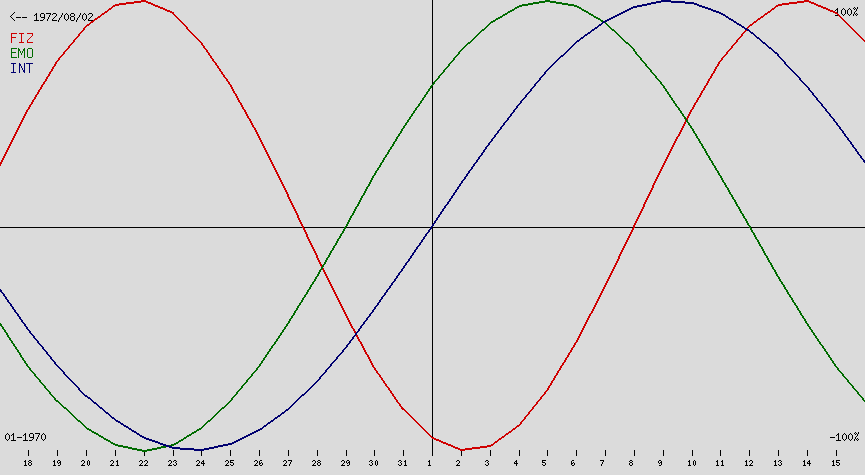
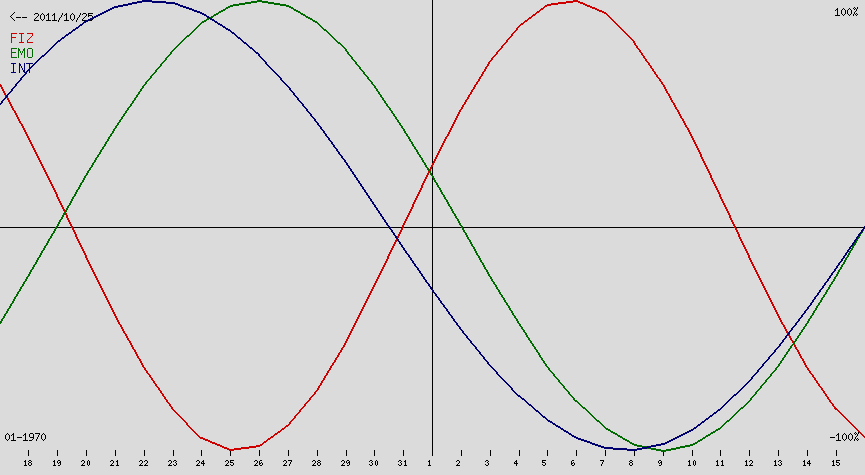
reorganización de la estructura de directorios

diff --git a/src/Jazzyweb/Bioritmos/Views/layout.php b/src/Jazzyweb/Bioritmos/Views/layout.php
@@ -1,8 +1,44 @@
-<?php
-/**
- * Created by JetBrains PhpStorm.
- * User: juandalibaba
- * Date: 14/09/13
- * Time: 15:08
- * To change this template use File | Settings | File Templates.
- */
+<!DOCTYPE html>
+<html lang="en">
+<head>
+    <meta charset="utf-8">
+    <title>Flat UI Kit - HTML/PSD Design Framework</title>
+    <meta name="viewport" content="width=device-width, initial-scale=1.0">
+
+    <!-- Loading Bootstrap -->
+    <link href="<?php echo asset('bootstrap/css/bootstrap.css') ?>" rel="stylesheet">
+
+    <!-- Loading Flat UI -->
+    <link href="<?php echo asset('css/flat-ui.css') ?>" rel="stylesheet">
+
+    <link rel="shortcut icon" href="<?php asset('images/favicon.ico') ?>">
+
+    <!-- HTML5 shim, for IE6-8 support of HTML5 elements. All other JS at the end of file. -->
+    <!--[if lt IE 9]>
+    <script src="<?php echo asset('js/html5shiv.js') ?>"></script>
+    <![endif]-->
+</head>
+<body>
+<div class="container">
+    <h1>Cálculo de Bioritmos</h1>
+
+<?php echo $contenidoPlantilla ?>
+</div> <!-- /container -->
+
+
+<!-- Load JS here for greater good =============================-->
+<script src="<?php echo asset('js/jquery-1.8.3.min.js') ?>"></script>
+<script src="<?php echo asset('js/jquery-ui-1.10.3.custom.min.js') ?>"></script>
+<script src="<?php echo asset('js/jquery.ui.touch-punch.min.js') ?>"></script>
+<script src="<?php echo asset('js/bootstrap.min.js') ?>"></script>
+<script src="js/bootstrap-select.js"></script>
+<script src="js/bootstrap-switch.js"></script>
+<script src="js/flatui-checkbox.js"></script>
+<script src="js/flatui-radio.js"></script>
+<script src="js/jquery.tagsinput.js"></script>
+<script src="js/jquery.placeholder.js"></script>
+<script src="js/jquery.stacktable.js"></script>
+<script src="http://vjs.zencdn.net/c/video.js"></script>
+<script src="js/application.js"></script>
+</body>
+</html>

diff --git a/src/Jazzyweb/Bioritmos/Model/Bioritmos.php b/src/Jazzyweb/Bioritmos/Model/Bioritmos.php
@@ -55,8 +55,8 @@ define('EMO_PERIOD', 28);
 define('INT_PERIOD', 33);
 
 define('DAYS_TO_SHOW', 30); // number of days on diagram
-define('DIAGRAM_WIDTH', 600);
-define('DIAGRAM_HEIGHT',400);
+define('DIAGRAM_WIDTH', 865);
+define('DIAGRAM_HEIGHT',475);
 
 define('FILE_FOR_DIAG', 'slika2.png'); // file for diagram graphyc; must be .png file
 
@@ -111,17 +111,18 @@ class Bioritmos {
         $this->showINT = true;
 
         if ($date_for_bior == -1)
-            $date_for_bior = date('Y-m-d', time());
+            //$date_for_bior = date('Y-m-d', time());
+            $date_for_bior = date('d/m/Y', time());
 
         // date for bior - timestamp
         $this->date_for_bior_epoch = strtotime($date_for_bior);
 
         // dateparts for birth_date
-        $birth_date_parts = explode('-', $birth_date);
+        $birth_date_parts = explode('/', $birth_date);
         list ($this->birth_date_y, $this->birth_date_m, $this->birth_date_d) = $birth_date_parts;
 
         // dateparts for date_for_bior
-        $date_for_bior_parts = explode('-', $date_for_bior);
+        $date_for_bior_parts = explode('/', $date_for_bior);
         list ($this->date_for_bior_y, $this->date_for_bior_m, $this->date_for_bior_d) = $date_for_bior_parts;
 
     }

diff --git a/src/Jazzyweb/Bioritmos/Controller/DefaultController.php b/src/Jazzyweb/Bioritmos/Controller/DefaultController.php
@@ -2,24 +2,29 @@
 
 namespace Jazzyweb\Bioritmos\Controller;
 
+use Jazzyweb\Bioritmos\Model\Bioritmos;
+use Jazzyweb\Framework\Controller;
 use Jazzyweb\Framework\Response;
 
-class Controller {
+class DefaultController extends Controller{
 
     public function index($request){
 
-        $response = new Response();
-
-        $response->setContent('<html><body><h1>Index</h1></body></html>');
+        $this->setLayout(__DIR__ . '/../Views/layout.php');
+        $response = $this->createView(__DIR__ . '/../Views/Default/index.php');
 
         return $response;
     }
 
     public function bioritmo($request){
 
-        $response = new Response();
+        $fechaNacimiento = $request->get('fechaN');
 
-        $response->setContent('<html><body><h1>Bioritmo</h1></body></html>');
+        $bior = new Bioritmos($fechaNacimiento);
+        $bior->DrawBior(__DIR__.'/../../../../web/bioritmos/my_bior.png');
+
+        $this->setLayout(__DIR__ . '/../Views/layout.php');
+        $response = $this->createView(__DIR__ . '/../Views/Default/bioritmo.php', array('file' => 'my_bior.png'));
 
         return $response;
     }

diff --git a/fwk/Jazzyweb/Framework/Controller.php b/fwk/Jazzyweb/Framework/Controller.php
@@ -1,0 +1,43 @@
+<?php
+
+namespace Jazzyweb\Framework;
+
+
+class Controller {
+
+    private $layout;
+
+    public function setLayout($layout){
+        if(!file_exists($layout)){
+            throw new \Exception('El layout ' . $layout . ' no existe');
+        }
+
+        $this->layout = $layout;
+    }
+
+    public function createView($template, $params = null ){
+
+        if(!file_exists($template)){
+            throw new \Exception('El template ' . $template . ' no existe');
+        }
+
+        $layout = $this->layout;
+        if(!isset($layout) || !$layout){
+            throw new \Exception('Debes definir un layout. Usa setLayout');
+        }
+
+        if(isset($params)){
+            foreach($params as $key => $value){
+                $$key = $value;
+            }
+        }
+
+        include __DIR__ . '/view.php';
+
+        $response = new Response();
+
+        $response->setContent($contenido);
+
+        return $response;
+    }
+}

diff --git a/app/config.php b/app/config.php
@@ -7,19 +7,20 @@ function loadConfig(){
             'homepage' => array(
                 'path' => '/',
                 'controller' => array(
-                    'class' => '\Jazzyweb\Bioritmos\Controller\BioritmosController',
+                    'class' => '\Jazzyweb\Bioritmos\Controller\DefaultController',
                     'action' => 'index'
                 )
             ),
             'bioritmo' => array(
                 'path' => '/bioritmo',
                 'controller' => array(
-                    'class' => '\Jazzyweb\Bioritmos\Controller\BioritmosController',
+                    'class' => '\Jazzyweb\Bioritmos\Controller\DefaultController',
                     'action' => 'bioritmo'
                 )
             )
-        )
+        ),
 
+        'sourceDir' => __DIR__.'/src'
     );
     return $config;
 }

diff --git a/fwk/Jazzyweb/Framework/Request.php b/fwk/Jazzyweb/Framework/Request.php
@@ -1,0 +1,37 @@
+<?php
+
+namespace Jazzyweb\Framework;
+
+class Request {
+
+    private $request;
+    private $files;
+    private $server;
+
+    public function __construct($request, $files, $server){
+        $this->request = $request;
+        $this->files = $files;
+        $this->server = $server;
+    }
+
+    public function get($name){
+
+        if(!isset($this->request[$name])){
+            throw new \Exception('El parámetro ' . $name . ' no se encuentra en la request');
+        }
+
+        return $this->request[$name];
+    }
+
+    public function getPath(){
+
+        $path = (isset($this->server['PATH_INFO']))? $this->server['PATH_INFO'] : '/';
+
+        return $path;
+    }
+
+    public static function createFromGlobals(){
+
+        return new static($_REQUEST, $_FILES, $_SERVER);
+    }
+}

diff --git a/fwk/Jazzyweb/Framework/Kernel.php b/fwk/Jazzyweb/Framework/Kernel.php
@@ -1,11 +1,4 @@
 <?php
-/**
- * Created by JetBrains PhpStorm.
- * User: juandalibaba
- * Date: 14/09/13
- * Time: 11:26
- * To change this template use File | Settings | File Templates.
- */
 
 namespace Jazzyweb\Framework;
 
@@ -18,18 +11,11 @@ class Kernel {
         $this->config = $config;
     }
 
-    public static function createFromGlobals(){
-        return array(
-            'get' => $_GET,
-            'post' => $_POST,
-            'files' => $_FILES,
-            'server' => $_SERVER);
-    }
     public function handle($request)
     {
         $router = new Router($this->config['routes']);
 
-        $path = (isset($request['server']['PATH_INFO']))? $request['server']['PATH_INFO'] : '/';
+        $path = $request->getPath();
 
         $controlador = $router->getController($path);
 

diff --git a/src/Jazzyweb/Bioritmos/Views/Default/index.php b/src/Jazzyweb/Bioritmos/Views/Default/index.php
@@ -1,0 +1,17 @@
+<div class="login">
+    <div class="login-screen">
+        <div class="login-icon">
+            <img alt="Bienvenido a Bioritmos" src="images/bioritmo.png">
+            <h4>Welcome to <small>Bioritmos</small></h4>
+        </div>
+
+        <div class="login-form">
+            <form action="<?php echo url('/bioritmo') ?>" method="post" ?>
+            <div class="control-group">
+                <input type="date" id="fechaN" name="fechaN" placeholder="¿Cuándo naciste?" value="" class="login-field">
+            </div>
+            <input type="submit"  class="btn btn-primary btn-large btn-block" value="Dime mi bioritmo">
+            </form>
+        </div>
+    </div>
+</div>

diff --git a/fwk/Jazzyweb/Framework/view.php b/fwk/Jazzyweb/Framework/view.php
@@ -1,0 +1,22 @@
+<?php
+
+function asset($asset){
+    $preDir = dirname($_SERVER['SCRIPT_NAME']);
+    return $preDir. '/' . $asset;
+}
+
+function url($ruta){
+    $preDir = $_SERVER['SCRIPT_NAME'];
+
+    return $preDir. $ruta;
+}
+
+?>
+
+<?php ob_start() ?>
+<?php include $template ?>
+<?php $contenidoPlantilla = ob_get_clean() ?>
+
+<?php ob_start() ?>
+<?php include $layout ?>
+<?php $contenido = ob_get_clean() ?>

diff --git a/src/Jazzyweb/Bioritmos/Views/Default/bioritmo.php b/src/Jazzyweb/Bioritmos/Views/Default/bioritmo.php
@@ -1,8 +1,6 @@
-<?php
-/**
- * Created by JetBrains PhpStorm.
- * User: juandalibaba
- * Date: 14/09/13
- * Time: 16:33
- * To change this template use File | Settings | File Templates.
- */
+<div class="login">
+        <img src="<?php echo asset('bioritmos/'.$file)?>" />
+    <div class="span10">
+    <a href="<?php echo url('/') ?>" class="btn btn-danger">Otro Bioritmo</a>
+        </div>
+</div>

diff --git a/web/index.php b/web/index.php
@@ -4,12 +4,12 @@ include(__DIR__."/../app/config.php");
 include(__DIR__."/../app/autoload.php");
 
 use Jazzyweb\Framework\Kernel;
+use Jazzyweb\Framework\Request;
 
 $config = loadConfig();
 
 $kernel = new Kernel($config);
-$request = Kernel::createFromGlobals();
+$request = Request::createFromGlobals();
 $response = $kernel->handle($request);
 
-//print_r($response);
 $response->send();

diff --git a/app/autoload.php b/app/autoload.php
@@ -4,7 +4,7 @@ function __autoload($className)
 {
     $className = ltrim($className, '\\');
     $fileName  = '';
-    $dirSrc = array(__DIR__.'/../src', __DIR__);
+    $dirSrc = array(__DIR__.'/../src', __DIR__.'/../fwk');
     $namespace = '';
     if ($lastNsPos = strrpos($className, '\\')) {
         $namespace = substr($className, 0, $lastNsPos);
